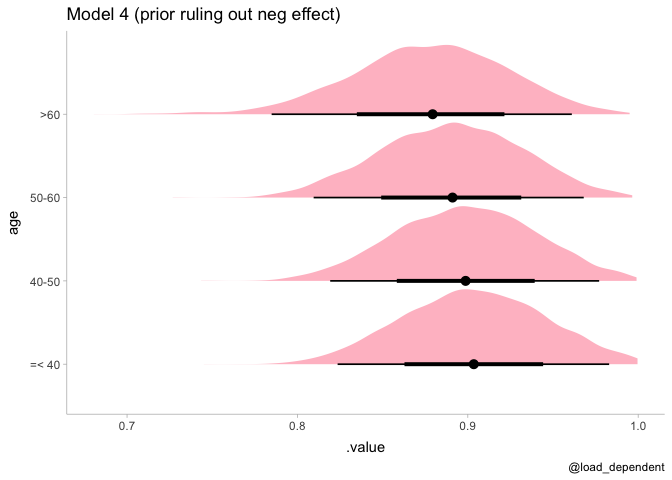
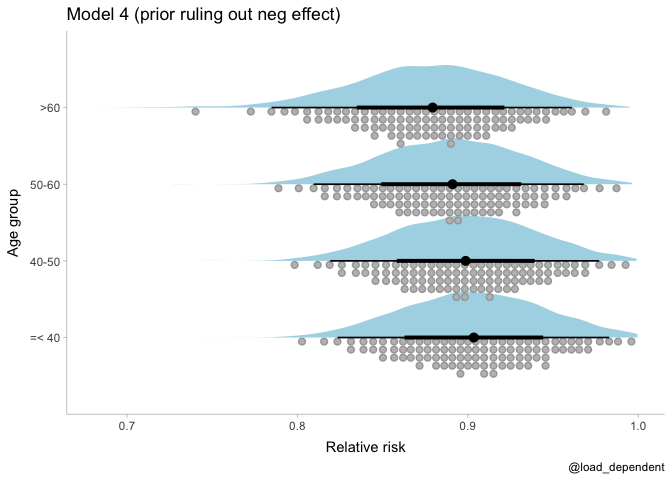
fixed comparisons

diff --git a/README.md b/README.md
@@ -478,6 +478,8 @@ cbind(loo_diff = l[, 1] * -2,
 | mod1\_b |  17.40600 |  4.777644 |
 | mod1\_a | 193.66049 | 69.477171 |
 
+Model weight comparison
+
 ``` r
 model_weights(mod1_a,mod1_b,mod2_a,mod3_a,mod3_b,weights = "loo") %>% round(digits = 6) %>% 
   knitr::kable()
@@ -490,41 +492,6 @@ model_weights(mod1_a,mod1_b,mod2_a,mod3_a,mod3_b,weights = "loo") %>% round(digi
 | mod2\_a | 0.001283 |
 | mod3\_a | 0.000644 |
 | mod3\_b | 0.997907 |
-
-``` r
-df %>% 
-  modelr::data_grid(age,group,n=1) %>% 
-  add_linpred_draws(mod2_a,scale="response") %>% 
-  compare_levels(.value,by = group,fun=`/`) %>%
-  median_hdi(.value) %>% 
-  knitr::kable()
-```
-
-| age      | group                  |   n |    .value |    .lower |    .upper | .width | .point | .interval |
-|:---------|:-----------------------|----:|----------:|----------:|----------:|-------:|:-------|:----------|
-| =&lt; 40 | intervention / control |   1 | 0.9710735 | 0.8296878 | 1.0997322 |   0.95 | median | hdi       |
-| 40-50    | intervention / control |   1 | 1.0077110 | 0.8018062 | 1.2272018 |   0.95 | median | hdi       |
-| 50-60    | intervention / control |   1 | 0.7773344 | 0.5930809 | 0.9832094 |   0.95 | median | hdi       |
-| &gt;60   | intervention / control |   1 | 0.6744464 | 0.5109744 | 0.8531188 |   0.95 | median | hdi       |
-
-``` r
-df %>% 
-  modelr::data_grid(age,group,n=1) %>% 
-  add_linpred_draws(mod3_b,scale="response") %>% 
-  compare_levels(.value,by = group,fun=`/`) %>%
-  compare_levels(.value,by=age,comparison="pairwise") %>% 
-  median_hdi() %>% 
-  knitr::kable()
-```
-
-| age               | group                  |   n |     .value |     .lower |     .upper | .width | .point | .interval |
-|:------------------|:-----------------------|----:|-----------:|-----------:|-----------:|-------:|:-------|:----------|
-| &gt;60 - =&lt; 40 | intervention / control |   1 | -0.3462784 | -0.5452315 | -0.1549620 |   0.95 | median | hdi       |
-| &gt;60 - 40-50    | intervention / control |   1 | -0.2825715 | -0.4696557 | -0.1066129 |   0.95 | median | hdi       |
-| &gt;60 - 50-60    | intervention / control |   1 | -0.1380332 | -0.2942072 | -0.0018091 |   0.95 | median | hdi       |
-| 40-50 - =&lt; 40  | intervention / control |   1 | -0.0495722 | -0.1683786 |  0.0004384 |   0.95 | median | hdi       |
-| 50-60 - =&lt; 40  | intervention / control |   1 | -0.1957441 | -0.3720265 | -0.0340859 |   0.95 | median | hdi       |
-| 50-60 - 40-50     | intervention / control |   1 | -0.1303420 | -0.2840577 | -0.0005065 |   0.95 | median | hdi       |
 
 ``` r
 df %>% 
@@ -623,15 +590,84 @@ df %>%
 
 ![](README_files/figure-gfm/plot_interaction_2b-1.png)<!-- -->
 
+Pairwise difference in effect from model 2
+
+``` r
+df %>% 
+  modelr::data_grid(age,group,n=1) %>% 
+  add_linpred_draws(mod2_a,scale="response") %>% 
+  compare_levels(.value,by = group,fun = `/`) %>%
+  compare_levels(.value,by = age,comparison="pairwise",fun = `/`) %>% 
+  ggplot(aes(x=.value,y=age,fill=after_stat(x>1)))+ 
+  stat_slab(position="dodge",scale=0.6)+
+  stat_dotsinterval(side="bottom", quantiles=100,position ="dodge",scale=0.6,fill="grey")+
+  scale_fill_manual(values=c("lightblue","pink"))+
+  scale_y_discrete(name = "Age group")+
+  scale_x_continuous(name="Difference in relative risk")+
+  theme_tidybayes()+
+  theme(legend.position = "none")+
+  labs(title = "Difference in relative risk from intervention between age groups\n(categorical age)",
+       caption = "@load_dependent")
+```
+
+![](README_files/figure-gfm/difference_categorical-1.png)<!-- -->
+Pairwise difference in effect from model 3 b
+
+``` r
+df %>% 
+  modelr::data_grid(age,group,n=1) %>% 
+  add_linpred_draws(mod3_b,scale="response") %>% 
+  compare_levels(.value,by = group,fun = `/`) %>%
+  compare_levels(.value,by = age,comparison="pairwise",fun = `/`) %>% 
+  ggplot(aes(x=.value,y=age,fill=after_stat(x>1)))+ 
+  stat_slab(position="dodge",scale=0.6)+
+  stat_dotsinterval(side="bottom", quantiles=100,position ="dodge",scale=0.6,fill="grey")+
+  scale_fill_manual(values=c("lightblue","pink"))+
+  scale_y_discrete(name = "Age group")+
+  scale_x_continuous(name="Difference in relative risk")+
+  theme_tidybayes()+
+  theme(legend.position = "none")+
+  labs(title = "Difference in relative risk from intervention between age groups\n(monotonic age)",
+       caption = "@load_dependent")
+```
+
+![](README_files/figure-gfm/difference_monotonic-1.png)<!-- -->
+Posterior probability of difference according to model 2 a
+
+``` r
+df %>% 
+  modelr::data_grid(age,group,n=1) %>% 
+  add_linpred_draws(mod2_a,scale="response") %>% 
+  compare_levels(.value,by = group,fun=`/`) %>%
+  compare_levels(.value,by=age,comparison="pairwise") %>% 
+  summarise(`Posterior probability of difference in effect`=mean(.value<0)) %>% 
+  ungroup() %>% 
+  select(-c(group,n)) %>% 
+  knitr::kable()
+```
+
+    ## `summarise()` has grouped output by 'age', 'group'. You can override using the `.groups` argument.
+
+| age               | Posterior probability of difference in effect |
+|:------------------|----------------------------------------------:|
+| &gt;60 - =&lt; 40 |                                       0.99575 |
+| &gt;60 - 40-50    |                                       0.99150 |
+| &gt;60 - 50-60    |                                       0.77675 |
+| 40-50 - =&lt; 40  |                                       0.38175 |
+| 50-60 - =&lt; 40  |                                       0.93450 |
+| 50-60 - 40-50     |                                       0.93600 |
+
 ``` r
 df %>% 
   modelr::data_grid(age,group,n=1) %>% 
   add_linpred_draws(mod4,scale="response") %>% 
   compare_levels(.value,by = group,fun = `/`) %>%
-  mutate(or=exp(.value)) %>% 
-  ggplot(aes(x=.value,y=age,fill=after_stat(ifelse(x>1,"over","under"))))+
-  stat_halfeye()+
-  scale_fill_manual(values=c("pink","lightblue"))+
+  ggplot(aes(x=.value,y=age,fill=after_stat(x>1)))+ 
+  stat_slab(position="dodge",scale=0.6)+
+  stat_dotsinterval(side="bottom", quantiles=100,position ="dodge",scale=0.6,fill="grey")+
+  scale_fill_manual(values=c("lightblue","pink"))+
+  scale_y_discrete(name = "Age group")+
+  scale_x_continuous(name="Relative risk")+
   theme_tidybayes()+
   theme(legend.position = "none")+
   labs(title = "Model 4 (prior ruling out neg effect)",
